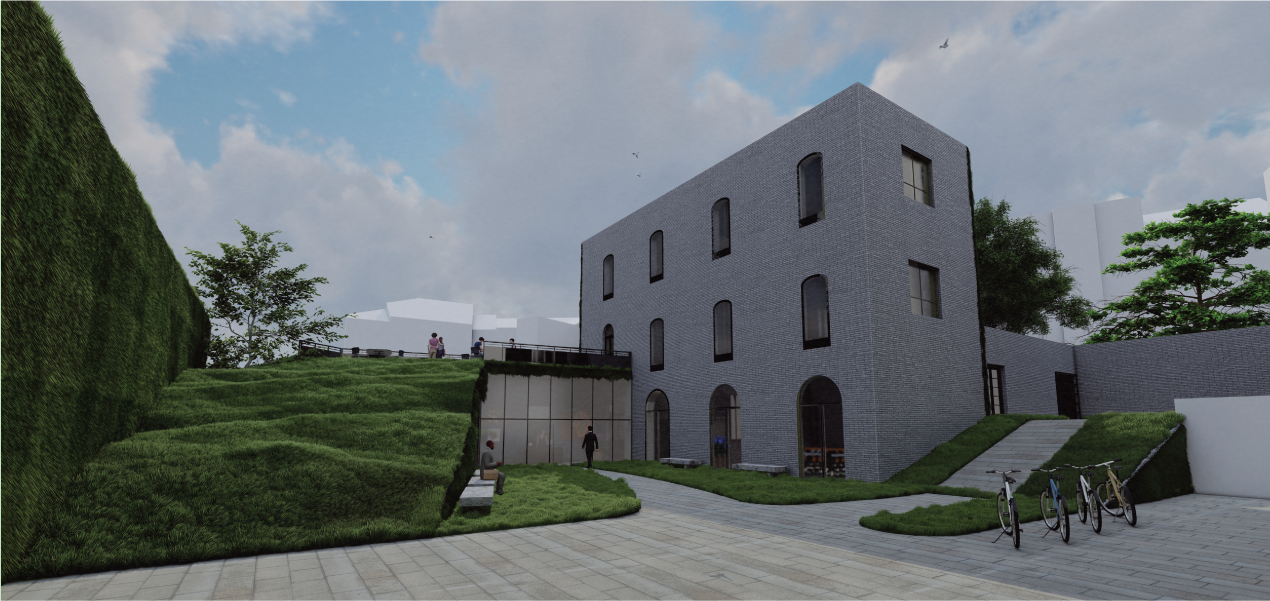
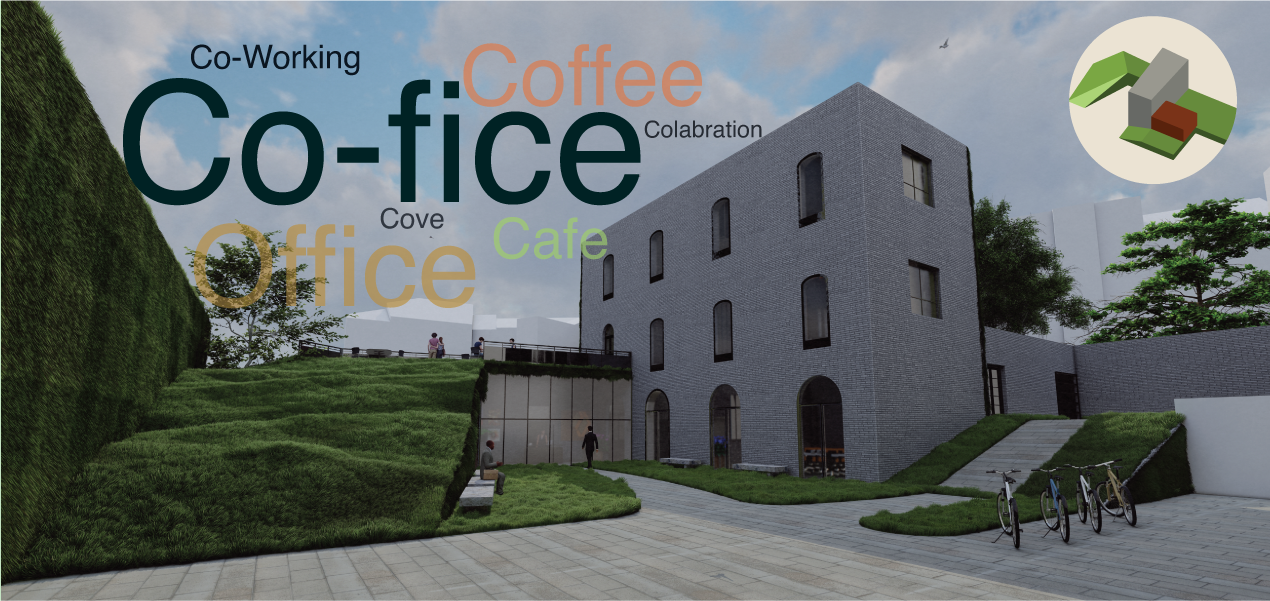
:D

Changed region(s): [[0.0921, 0.0599, 0.6142, 0.5092], [0.8291, 0.03, 0.9827, 0.3295]]

diff --git a/projects/bachelorarbeit.html b/projects/bachelorarbeit.html
@@ -42,13 +42,16 @@
 
           <div class="col-lg-12 portfolio-info">
             <br>
-            <h2 style="color:#12d640">Bachelor Thesis</h2>
+            <h2 style="color:#12d640">Co-fice</h2>
 
             <ul>
-              <li><strong>Related</strong>: Architecture, BSc, Sustainability, Reuse, Green Walls, Green Facade</li>
+              <li><strong>Related</strong>: Architecture, BSc, Sustainability, Reuse, Green Walls, Green Facade, Bachelor Thesis</li>
             </ul>
+            <h2 style="color:#12d640">Layout</h2>
+            <p>This project is my Bachelor Thesis, and consists of two different parts. One was written and the other one is project. First the written part will be presented and then the project itself will be briefly shown.</p>
             <h2 style="color:#12d640">Writen Part: Green Wall Systems</h2>
-            <iframe src="https://drive.google.com/file/d/1p5YkWjVUAfNFRNDTqQCQi7RoJYchqC98/preview" width="640" height="480" allow="autoplay"></iframe>
+            <iframe src="https://drive.google.com/file/d/1p5YkWjVUAfNFRNDTqQCQi7RoJYchqC98/preview" width="360" height="480" allow="autoplay"></iframe>
+            <h2 style="color:#12d640">Proejct Part: Co-fice</h2>
           </div>
 
         </div>

diff --git a/index.html b/index.html
@@ -292,7 +292,7 @@
         </div>
 
         <div class="col-lg-4 col-md-6 portfolio-item filter-arc">
-          <center><h4>Bachelor Thesis</h4></center>
+          <center><h4>Bachelor Thesis: Co-fice</h4></center>
           <div class="portfolio-wrap">
             <img src="assets/img/project/bachelorarbeit.png" class="img-fluid" alt="">
             <div class="portfolio-info">
